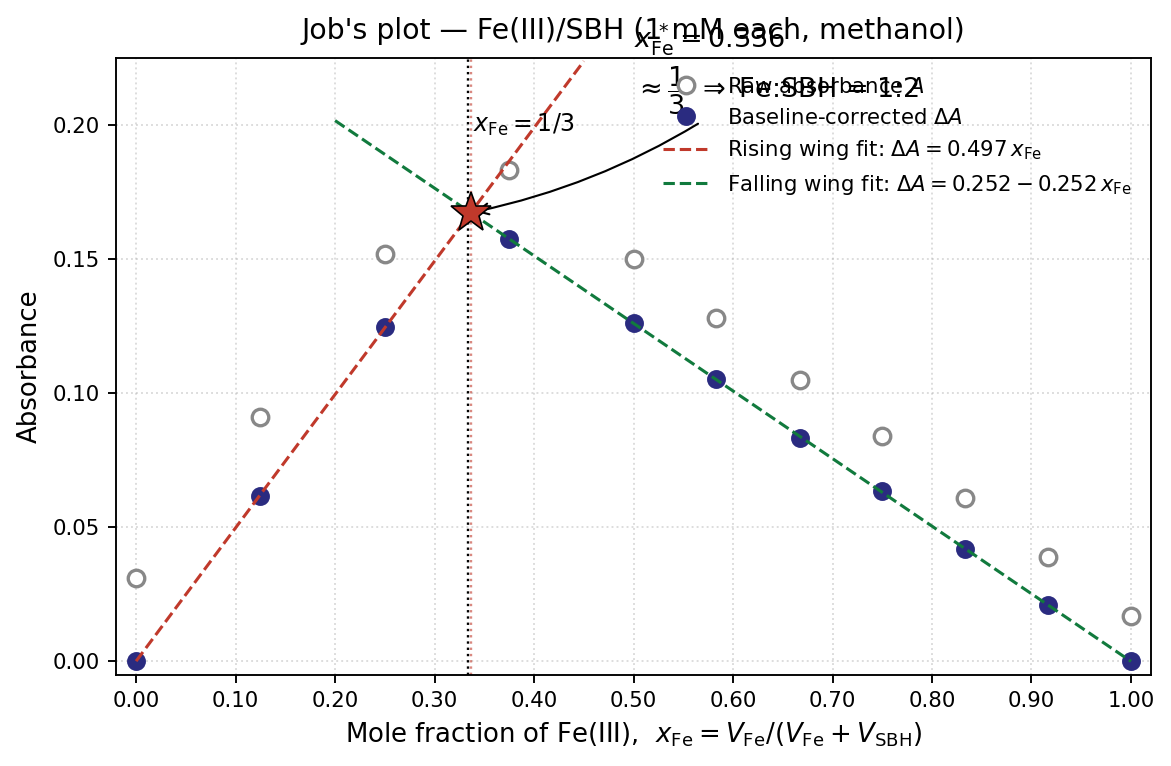
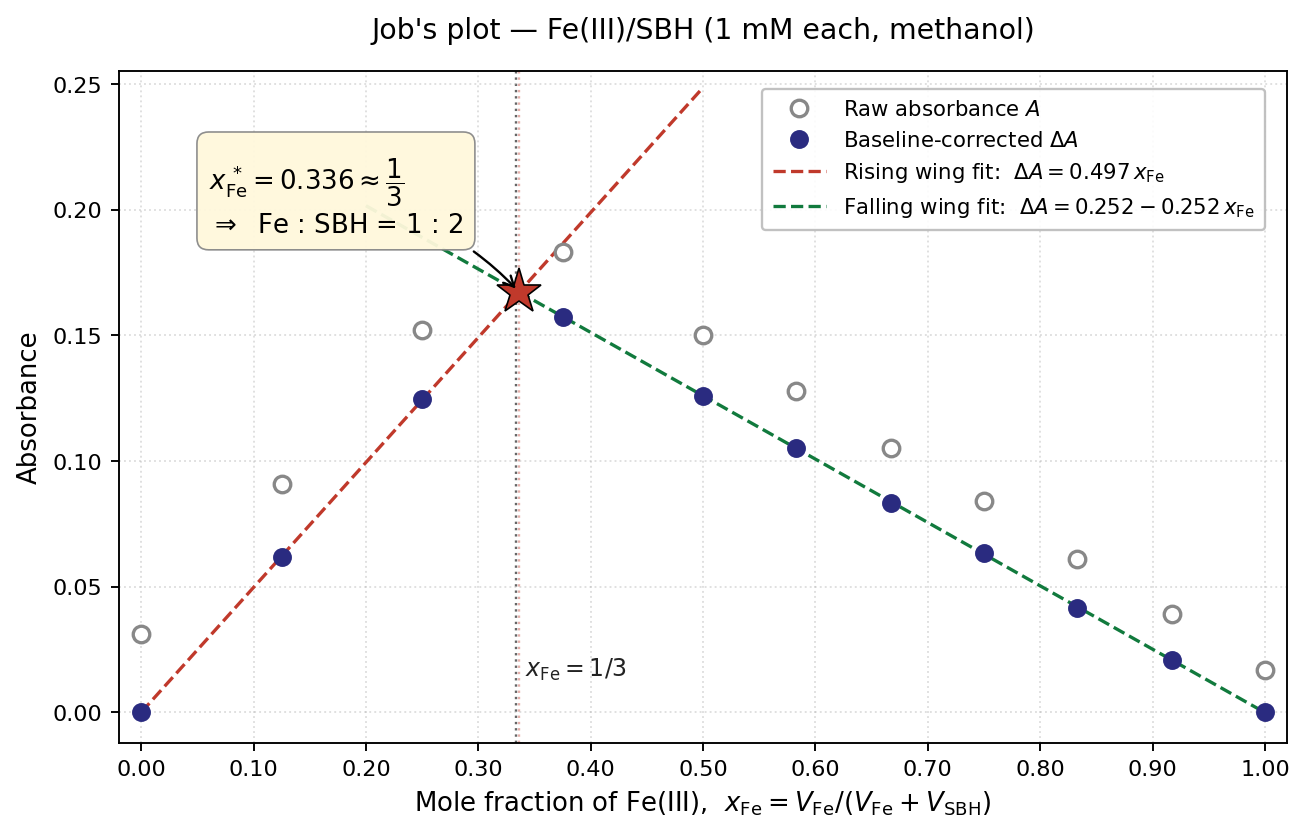
P3.32 Q4 plot: redesign layout — no title/annotation/legend overlap
The first version of the Job's plot had three elements competing for the
same screen real estate near the top of the axes:

  - matplotlib title:  "Job's plot — Fe(III)/SBH (1 mM each, methanol)"
  - annotation header: x_Fe* = 0.336  (placed at xytext=(0.50, 0.21))
  - 4-line legend in the upper-right starting around y≈0.20

With ylim=(-0.005, 0.225), the annotation at y=0.21 sat on top of the title,
producing the garbled "1*mM" rendering; the annotation's "Fe:SBH = 1:2"
also collided with the legend's "Raw absorbance A" line.

Fix: think of the tent shape as four quadrants. The two upper triangles
above the rising/falling wings are empty by construction — use one each:

  - upper-LEFT triangle  -> wing-intersection annotation
                           (boxed, cream bg, arrow to red star)
  - upper-RIGHT triangle -> legend (white box, framed)
  - axis bottom          -> x_Fe = 1/3 guide-line label

Other adjustments:
  - figsize 7.8 x 5.0 (was 7.0 x 4.6)
  - ylim extended to 0.255 for breathing room under the title (pad=14)
  - star marker enlarged to ms=20 with red color matching the rising wing
  - arrow connectionstyle tightened to arc3,rad=-0.18

Numerical results unchanged: x_Fe* = 0.336, +0.9 % off 1/3, Fe:SBH = 1:2.

diff --git a/parts/part3/images/q32_jobs_plot.py b/parts/part3/images/q32_jobs_plot.py
@@ -1,28 +1,41 @@
+"""Job's plot for the Fe(III)/SBH system (IChO 2026 prep, P3.32, Q4).
+
+Generates parts/part3/images/q32_jobs_plot.png.
+
+Layout principles for a tent-shaped Job's plot:
+- The "tent" leaves an empty upper-left triangle (above the rising wing)
+  and an empty upper-right triangle (above the falling wing). Use these.
+- Place the legend in the upper-right triangle, the wing-intersection
+  annotation in the upper-left triangle, and keep the `x_Fe = 1/3`
+  guide-line label down near the x-axis. This guarantees no overlap with
+  the title or with each other regardless of font scaling.
+"""
 import numpy as np
 import matplotlib.pyplot as plt
 
-# Data from the IChO 2026 prep problem 32
-x = np.array([0.000, 0.125, 0.250, 0.375, 0.500, 0.583, 0.667, 0.750, 0.833, 0.917, 1.000])
-A = np.array([0.031, 0.091, 0.152, 0.183, 0.150, 0.128, 0.105, 0.084, 0.061, 0.039, 0.017])
-A_L = A[0]      # absorbance of pure SBH stock
-A_M = A[-1]     # absorbance of pure Fe stock
+# --- Data from the problem statement ---
+x = np.array([0.000, 0.125, 0.250, 0.375, 0.500, 0.583, 0.667,
+              0.750, 0.833, 0.917, 1.000])
+A = np.array([0.031, 0.091, 0.152, 0.183, 0.150, 0.128, 0.105,
+              0.084, 0.061, 0.039, 0.017])
+A_L = A[0]
+A_M = A[-1]
 
-# Linear baseline subtraction (one absorbing complex assumption)
+# Linear-baseline-corrected absorbance
 dA = A - (A_L * (1 - x) + A_M * x)
 
-# Rising-wing fit: through origin using the two innermost points
-x_rise = x[1:3]      # 0.125, 0.250
+# Rising-wing through-origin fit: use x = 0.125, 0.250
+x_rise = x[1:3]
 y_rise = dA[1:3]
-m_rise = np.sum(x_rise * y_rise) / np.sum(x_rise**2)   # least-squares through origin
+m_rise = float(np.sum(x_rise * y_rise) / np.sum(x_rise**2))
 b_rise = 0.0
 
-# Falling-wing fit: x >= 0.500 (SBH-limited region, far from peak)
+# Falling-wing fit: use x >= 0.500
 mask_fall = x >= 0.500
-x_fall = x[mask_fall]
-y_fall = dA[mask_fall]
-m_fall, b_fall = np.polyfit(x_fall, y_fall, 1)
+m_fall, b_fall = np.polyfit(x[mask_fall], dA[mask_fall], 1)
+m_fall, b_fall = float(m_fall), float(b_fall)
 
-# Intersection of the two extrapolated lines
+# Wing intersection
 x_star = (b_fall - b_rise) / (m_rise - m_fall)
 y_star = m_rise * x_star + b_rise
 
@@ -32,53 +45,78 @@ print(f"Intersection: x* = {x_star:.4f}, dA* = {y_star:.4f}")
 print(f"Expected for 1:2 complex: 1/3 = {1/3:.4f}")
 print(f"Deviation: {(x_star - 1/3) / (1/3) * 100:+.2f} %")
 
-# Plot
-fig, ax = plt.subplots(figsize=(7.0, 4.6), dpi=170)
+# --- Plot ---
+fig, ax = plt.subplots(figsize=(7.8, 5.0), dpi=170)
 
-# Raw A (open circles)
-ax.plot(x, A, marker='o', mfc='white', mec='#888', mew=1.4, ls='', ms=7, label=r'Raw absorbance $A$')
-
-# Baseline-corrected dA (solid circles)
+# Data
+ax.plot(x, A, marker='o', mfc='white', mec='#888', mew=1.4, ls='', ms=7,
+        label=r'Raw absorbance $A$', zorder=3)
 ax.plot(x, dA, marker='o', mfc='#2a2b80', mec='#2a2b80', ls='', ms=7,
-        label=r'Baseline-corrected $\Delta A$')
+        label=r'Baseline-corrected $\Delta A$', zorder=4)
 
-# Extrapolated wings (dashed)
-xx_rise = np.linspace(0.0, 0.45, 50)
+# Extrapolated wings
+xx_rise = np.linspace(0.0, 0.50, 50)
 xx_fall = np.linspace(0.20, 1.0, 50)
-ax.plot(xx_rise, m_rise * xx_rise + b_rise, ls='--', color='#c0392b', lw=1.3,
-        label=fr'Rising wing fit: $\Delta A = {m_rise:.3f}\,x_{{\rm Fe}}$')
-ax.plot(xx_fall, m_fall * xx_fall + b_fall, ls='--', color='#117a3d', lw=1.3,
-        label=fr'Falling wing fit: $\Delta A = {b_fall:.3f} {m_fall:+.3f}\,x_{{\rm Fe}}$')
+ax.plot(xx_rise, m_rise * xx_rise + b_rise, ls='--', color='#c0392b', lw=1.4,
+        label=fr'Rising wing fit:  $\Delta A = {m_rise:.3f}\,x_{{\rm Fe}}$',
+        zorder=2)
+ax.plot(xx_fall, m_fall * xx_fall + b_fall, ls='--', color='#117a3d', lw=1.4,
+        label=fr'Falling wing fit:  $\Delta A = {b_fall:.3f} {m_fall:+.3f}\,x_{{\rm Fe}}$',
+        zorder=2)
 
-# Vertical guides
-ax.axvline(1/3, ls=':', color='black', lw=1.0)
-ax.axvline(x_star, ls=':', color='#c0392b', lw=1.0, alpha=0.6)
+# Vertical guides at x = 1/3 (theory) and x* (experiment)
+ax.axvline(1/3, ls=':', color='black', lw=1.0, alpha=0.6, zorder=1)
+ax.axvline(x_star, ls=':', color='#c0392b', lw=1.0, alpha=0.4, zorder=1)
 
-# Mark the intersection
-ax.plot([x_star], [y_star], marker='*', color='#c0392b', ms=18, mec='black', mew=0.7, zorder=5)
-ax.annotate(
-    fr'$x_{{\rm Fe}}^{{\,*}} = {x_star:.3f}$' + '\n' + r'$\approx \dfrac{1}{3}\ \Rightarrow\ $Fe:SBH = 1:2',
-    xy=(x_star, y_star), xytext=(0.50, 0.21),
-    fontsize=11.5, ha='left',
-    arrowprops=dict(arrowstyle='->', color='black', lw=0.9, connectionstyle='arc3,rad=-0.12'),
+# Star at the intersection
+ax.plot([x_star], [y_star], marker='*', color='#c0392b', ms=20,
+        mec='black', mew=0.7, zorder=6)
+
+# --- Annotation in the upper-LEFT empty triangle, well below the title ---
+annotation_text = (
+    fr'$x_{{\rm Fe}}^{{\,*}} = {x_star:.3f} \approx \dfrac{{1}}{{3}}$'
+    '\n'
+    r'$\Rightarrow$  Fe : SBH = 1 : 2'
 )
+ax.annotate(
+    annotation_text,
+    xy=(x_star, y_star),
+    xytext=(0.06, 0.205),
+    fontsize=11,
+    ha='left', va='center',
+    bbox=dict(boxstyle='round,pad=0.45', fc='#fff8dc',
+              ec='#888', lw=0.7, alpha=0.95),
+    arrowprops=dict(arrowstyle='->', color='black', lw=1.0,
+                    connectionstyle='arc3,rad=-0.18'),
+    zorder=7,
+)
+
+# --- Legend in the upper-RIGHT empty triangle ---
+ax.legend(
+    loc='upper right',
+    bbox_to_anchor=(0.99, 0.99),
+    fontsize=9, frameon=True, fancybox=True,
+    facecolor='white', edgecolor='#bbb', framealpha=0.9,
+    handlelength=2.5, borderpad=0.5,
+)
+
+# --- x_Fe = 1/3 label down near the x-axis (out of title/annotation space) ---
+ax.text(1/3 + 0.008, 0.012, r'$x_{\rm Fe} = 1/3$',
+        fontsize=10, va='bottom', color='#222')
 
 # Axis dressing
 ax.set_xlim(-0.02, 1.02)
-ax.set_ylim(-0.005, 0.225)
+ax.set_ylim(-0.012, 0.255)
 ax.set_xticks(np.linspace(0.0, 1.0, 11))
-ax.set_xticklabels([f'{v:.2f}' for v in np.linspace(0.0, 1.0, 11)], fontsize=9)
-ax.set_yticks(np.linspace(0.00, 0.20, 5))
-ax.set_yticklabels([f'{v:.2f}' for v in np.linspace(0.00, 0.20, 5)], fontsize=9)
+ax.set_xticklabels([f'{v:.2f}' for v in np.linspace(0.0, 1.0, 11)], fontsize=9.5)
+ax.set_yticks(np.linspace(0.00, 0.25, 6))
+ax.set_yticklabels([f'{v:.2f}' for v in np.linspace(0.00, 0.25, 6)], fontsize=9.5)
 ax.set_xlabel(r'Mole fraction of Fe(III),  $x_{\rm Fe} = V_{\rm Fe}/(V_{\rm Fe}+V_{\rm SBH})$',
               fontsize=11)
 ax.set_ylabel(r'Absorbance', fontsize=11)
-ax.set_title("Job's plot — Fe(III)/SBH (1 mM each, methanol)", fontsize=12, pad=8)
-ax.grid(True, ls=':', alpha=0.45)
-ax.legend(loc='upper right', fontsize=9, frameon=False, handlelength=2.2)
-
-# Annotate the x_Fe = 1/3 line
-ax.text(1/3 + 0.005, 0.205, r'$x_{\rm Fe} = 1/3$', fontsize=10, va='top')
+ax.set_title("Job's plot — Fe(III)/SBH (1 mM each, methanol)",
+             fontsize=12, pad=14)
+ax.grid(True, ls=':', alpha=0.4)
 
 fig.tight_layout()
 out = "/Users/qchen/code/icho2026-solutions/parts/part3/images/q32_jobs_plot.png"